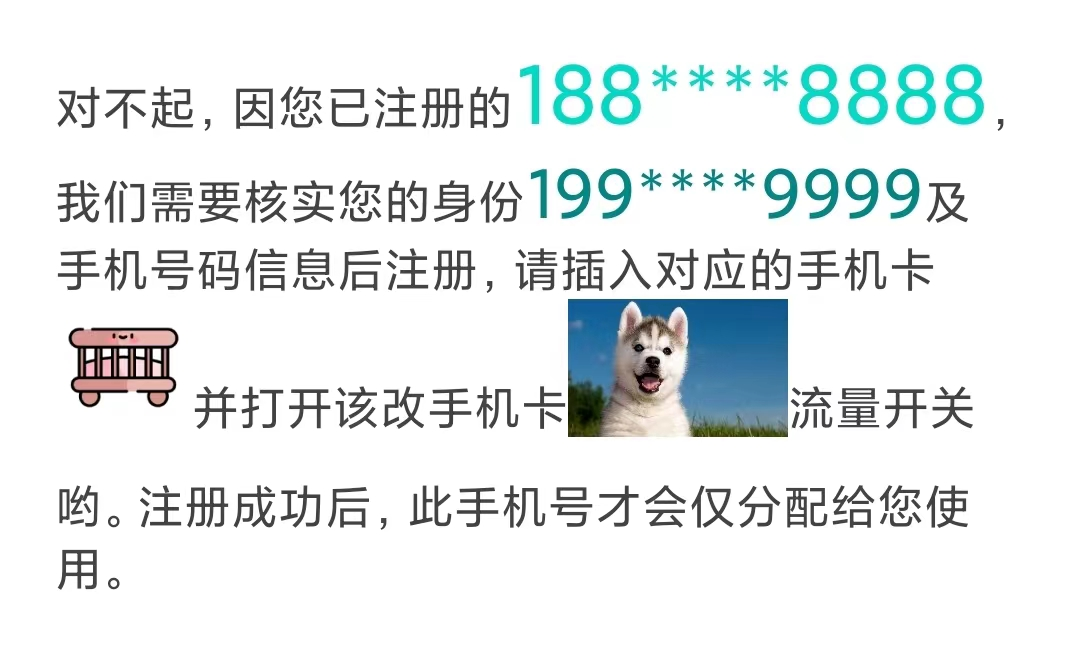
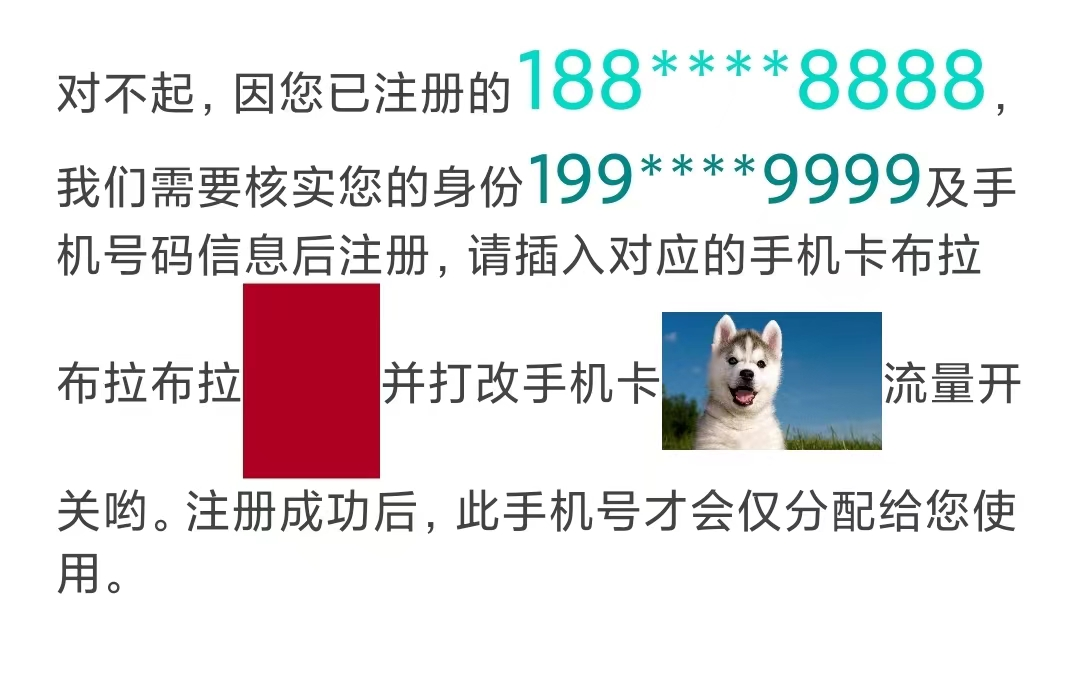
更新README

Changed region(s): [[0.0306, 0.0616, 0.9472, 0.9245], [0.0306, 0.0924, 0.1833, 0.2157]]

diff --git a/app/src/main/java/me/chentao/span/simple/PlaceholderActivity.kt b/app/src/main/java/me/chentao/span/simple/PlaceholderActivity.kt
@@ -58,13 +58,13 @@ class PlaceholderActivity : AppCompatActivity() {
       .withImage(
         Configs.image()
           .drawable(drawableRes(R.drawable.icon_rect))
-          .verticalAlign(BASELINE)
+          .verticalAlign(CENTER)
           .width(50.dp)
       )
       .withImage(
         Configs.image()
           .url(IMAGE_URL)
-          .verticalAlign(BOTTOM)
+          .verticalAlign(CENTER)
           .width(80.dp)
           .click {
             Log.d(TAG, "哈哈哈哈哈")
